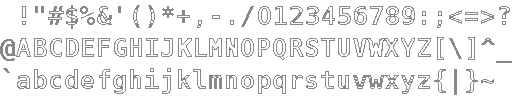
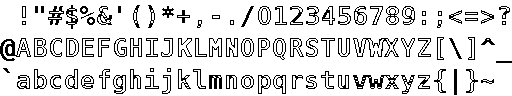
changed stuff to do with appearance of game

diff --git a/src/menu.rs b/src/menu.rs
@@ -3,7 +3,7 @@ use crate::controls::CONTROLS;
 use crate::game_state::StateTransition;
 use crate::resources::Resources;
 use crate::text::write_text;
-use macroquad::color::{BLUE, Color, WHITE, YELLOW};
+use macroquad::color::{BLACK, BLUE, Color, WHITE, YELLOW};
 use macroquad::math::{Rect, Vec2, vec2};
 use macroquad::prelude::{DrawTextureParams, draw_texture_ex};
 
@@ -238,11 +238,11 @@ impl MenuItem {
         let pos = vec2(offset.x, offset.y + line * 32.);
         let color: Color;
         if !self.selectable {
-            color = BLUE;
+            color = BLACK;
         } else if selected {
-            color = YELLOW;
+            color = Color::new(0.7, 0.7, 0.7, 1.);
         } else {
-            color = WHITE;
+            color = Color::new(0.4, 0.4, 0.4, 1.);
         }
         write_text(&self.label_text, pos, color, "font.png");
     }

diff --git a/src/hud.rs b/src/hud.rs
@@ -51,7 +51,7 @@ fn draw_health_text(pos: Vec2, transparency: f32) {
     write_text(
         "HEALTH",
         vec2(pos.x, pos.y + 16.),
-        Color::new(0.3, 0.3, 0.3, transparency),
+        Color::new(1., 1., 1., transparency),
         "font_bold.png",
     );
 }
@@ -172,7 +172,7 @@ pub fn draw_hud(bottom: bool, full: bool, map_pixels: &Vec<Vec<MapPixelType>>, h
         vec2(152., 24.)
     };
 
-    let transparency = if full { 0.8 } else { 0.6 };
+    let transparency = if full { 1. } else { 0.6 };
     draw_health_bar(health_pos, transparency);
     if full {
         draw_health_text(health_pos, transparency);

diff --git a/src/main.rs b/src/main.rs
@@ -53,7 +53,6 @@ fn window_conf() -> Conf {
 
 #[macroquad::main(window_conf)]
 async fn main() {
-    clear_background(BLACK);
     load_all_assets().await;
     let load_state = LoadSaveState::new();
     let new_game_state = NewGameState::new();
@@ -112,14 +111,12 @@ async fn main() {
             ..Default::default()
         });
 
-        clear_background(YELLOW);
+        clear_background(GRAY);
 
         game_state_stack.update();
         game_state_stack.draw();
 
         set_default_camera();
-
-        clear_background(MAGENTA);
 
         //draw background tiles
         {
